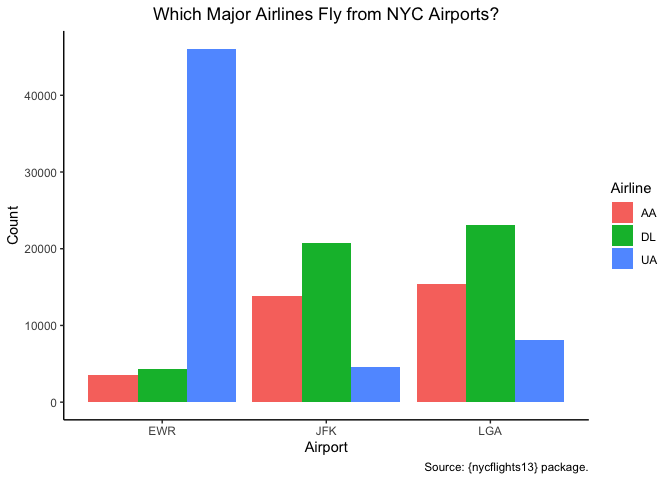
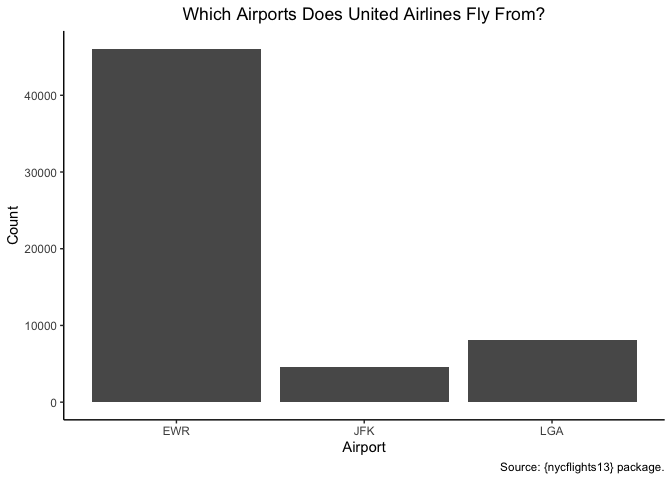
Revisions to problem set 1 (#17)
* fix: update problem set 1 for spring 2025 class

* update with stashed changes from main

diff --git a/assignments/assignment1/assignment1.md b/assignments/assignment1/assignment1.md
@@ -114,13 +114,15 @@ mean(jfk_delays$dep_delay_hours, na.rm = TRUE)
     [1] 1.413193
 
 5.  Create a histogram showing the departure delays from JFK airport in
-    hours. Each bar should represent 20 minutes (i.e., 1/3 of an hour).
-    Your graph should include a theme, a title, proper axis labels, and
-    a caption.
+    hours (that is, use all flights from JFK, not just the ones delayed
+    by 30 minutes or more). Each bar should represent 20 minutes (i.e.,
+    1/3 of an hour).
 
 ``` r
+jfk <- flights[flights$origin == "JFK",]
+jfk$dep_delay_hours <- jfk$dep_delay/60
 library(ggplot2)
-ggplot(data = jfk_delays) +
+ggplot(data = jfk) +
   geom_histogram(mapping = aes(x = dep_delay_hours), binwidth = .33) +
   theme_classic() +
   labs(x = "Departure Delay (hours)",
@@ -133,20 +135,17 @@ ggplot(data = jfk_delays) +
 ![](assignment1_files/figure-commonmark/unnamed-chunk-7-1.png)
 
 6.  Let’s return to the original `flights` data frame now. Limit the
-    data frame to only the three major airlines (`AA` for American
-    Airlines, `DL` for Delta Airlines, and `UA` for United Airlines).
-    Create a bar graph showing how many flights each airline took from
-    each of the three NYC airports (JFK, LGA, and EWR). Your graph
-    should include a theme, a title, proper axis labels, and a caption.
+    data frame to only United Airlines (`UA`). Create a bar graph
+    showing how many flights United Airlines took from each of the three
+    NYC airports (JFK, LGA, and EWR).
 
 ``` r
-ggplot(data = flights[flights$carrier %in% c("AA", "DL", "UA"),]) +
-  geom_bar(mapping = aes(x = origin, fill = carrier), position = "dodge") +
+ggplot(data = flights[flights$carrier == "UA",]) +
+  geom_bar(mapping = aes(x = origin)) +
   theme_classic() +
   labs(x = "Airport",
        y = "Count",
-       fill = "Airline",
-       title = "Which Major Airlines Fly from NYC Airports?",
+       title = "Which Airports Does United Airlines Fly From?",
        caption = "Source: {nycflights13} package.") +
   theme(plot.title = element_text(hjust = .5))
 ```
